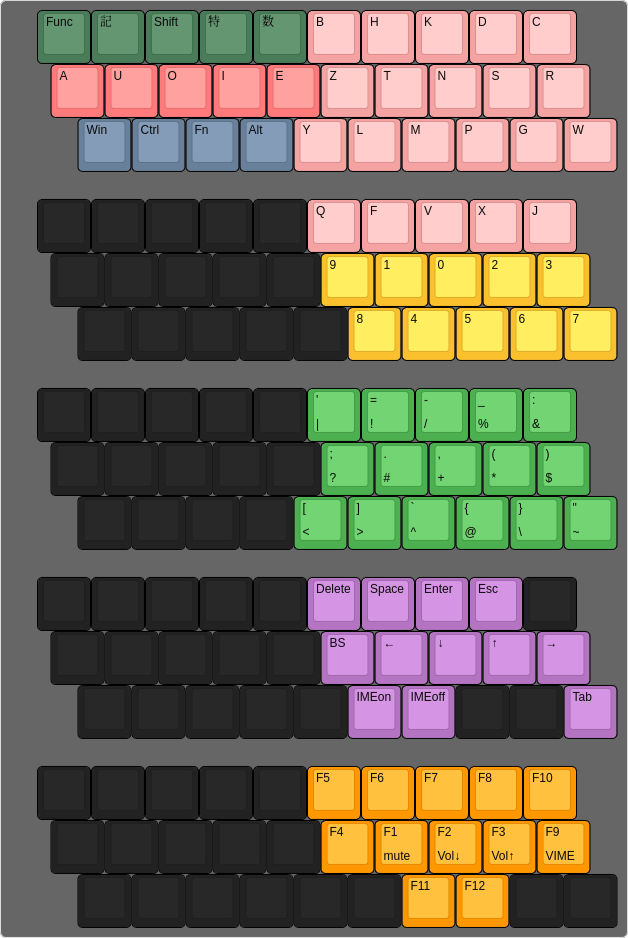
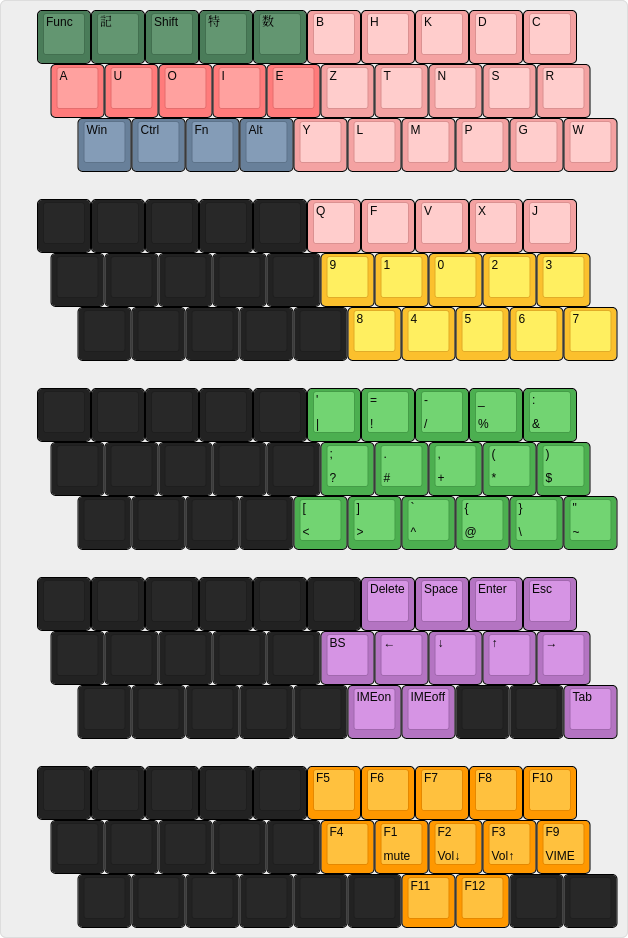
何気にミスってるし修正しとくか

diff --git a/articles/20260707.md b/articles/20260707.md
@@ -209,8 +209,8 @@ Row dataはこんな感じです。
 [{y:0.5,x:0.5,c:"#222222",a:7},"","","","","",{c:"#4caf50",a:4},"'\n|","=\n!","-\n/","_\n%",":\n&"],
 [{x:0.75,c:"#222222",a:7},"","","","","",{c:"#4caf50",a:4},";\n?",".\n#",",\n+","(\n*",")\n$"],
 [{x:1.25,c:"#222222",a:7},"","","","",{c:"#4caf50",a:4},"[\n<","]\n>","`\n^","{\n@","}\n\\","\"\n~"],
-[{y:0.5,x:0.5,c:"#222222",a:7},"","","","","",{c:"#B474C2",a:4},"Delete","Space","Enter","Esc",{c:"#222222",a:7},""],
-[{x:0.75},"","","","","",{c:"#B474C2",a:4},"BS","←","↓","↑","→"],
+[{y:0.5,x:0.5,c:"#222222",a:7},"","","","","","",{c:"#B474C2",a:4},"Delete","Space","Enter","Esc"],
+[{x:0.75,c:"#222222",a:7},"","","","","",{c:"#B474C2",a:4},"BS","←","↓","↑","→"],
 [{x:1.25,c:"#222222",a:7},"","","","","",{c:"#B474C2",a:4},"IMEon","IMEoff",{c:"#222222",a:7},"","",{c:"#B474C2",a:4},"Tab"],
 [{y:0.5,x:0.5,c:"#222222",a:7},"","","","","",{c:"#ff9800",a:4},"F5","F6","F7","F8","F10"],
 [{x:0.75,c:"#222222",a:7},"","","","","",{c:"#ff9800",a:4},"F4","F1\nmute","F2\nVol↓","F3\nVol↑","F9\nVIME"],
